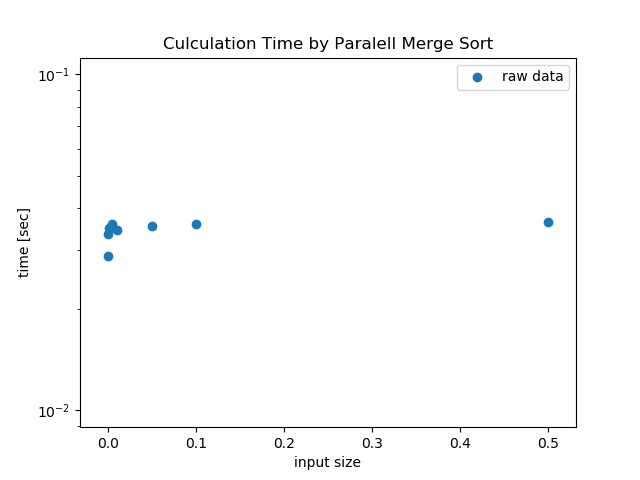
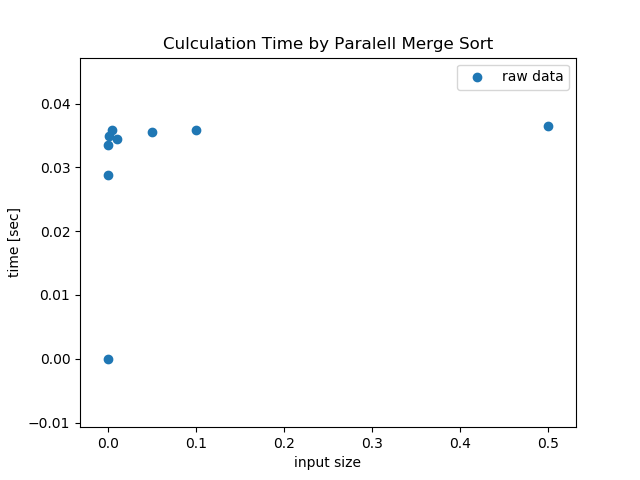
added minor change

diff --git a/continuous_system/01/plot1.py b/continuous_system/01/plot1.py
@@ -21,7 +21,7 @@ num, time = np.loadtxt("./data1.txt", unpack = True)
 plt.scatter(num, time, label = 'raw data')
 plt.xlabel("input size")
 plt.ylabel("time [sec]")
-plt.yscale("log")
+# plt.xscale("log")
 # plt.xticks(0.0, 100.0, 10.0)
 # plt.yticks(0.0, 0.22, 0.02)
 
